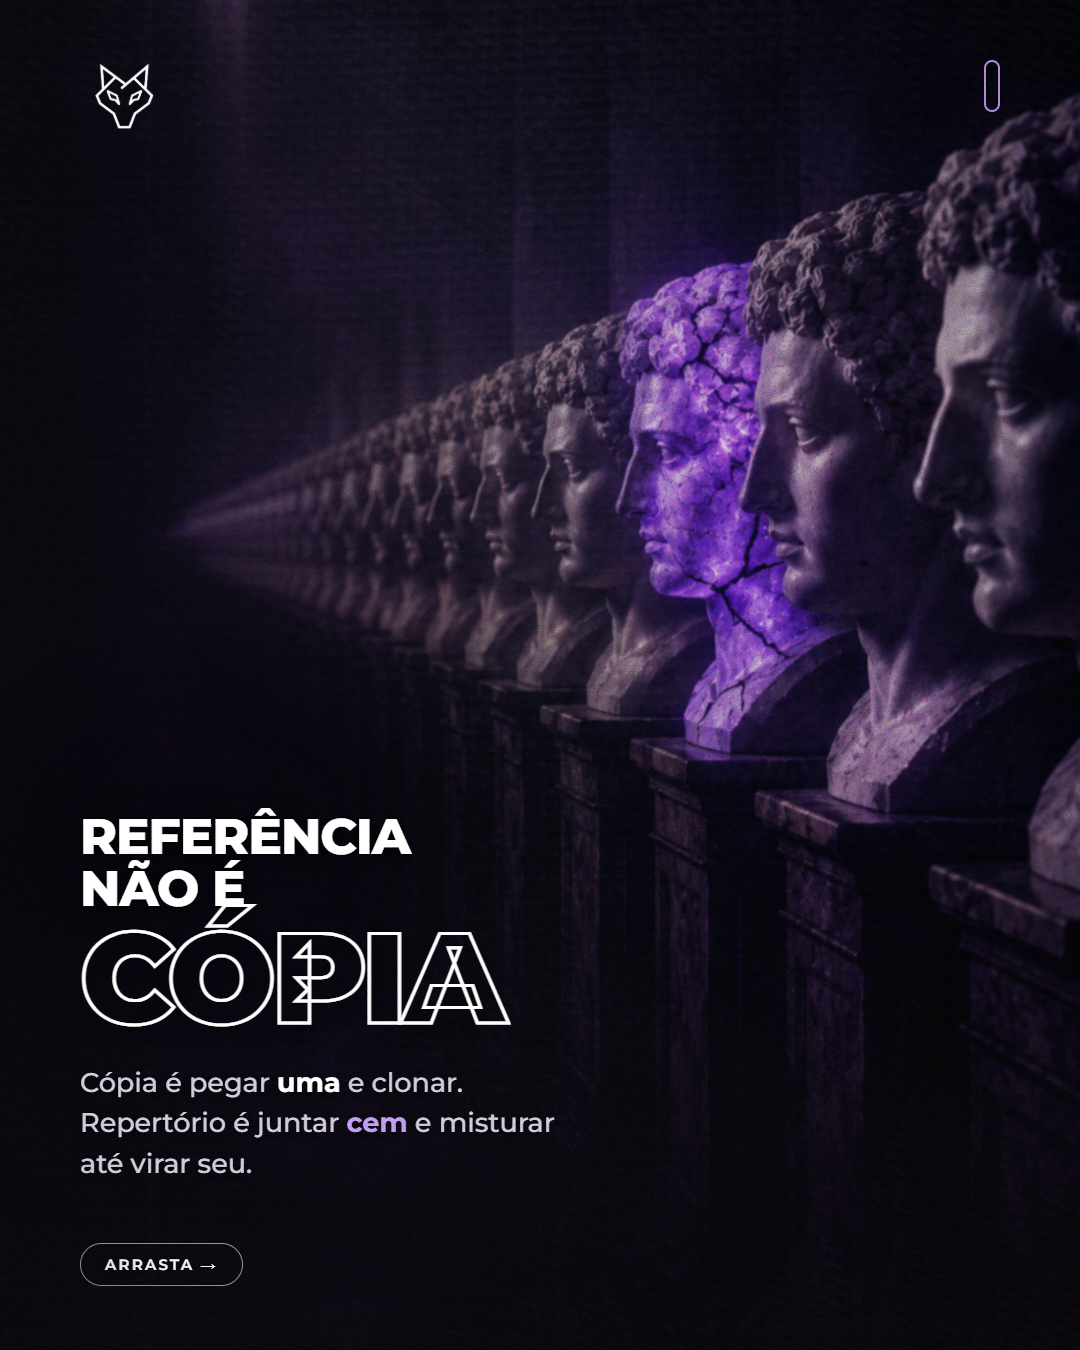
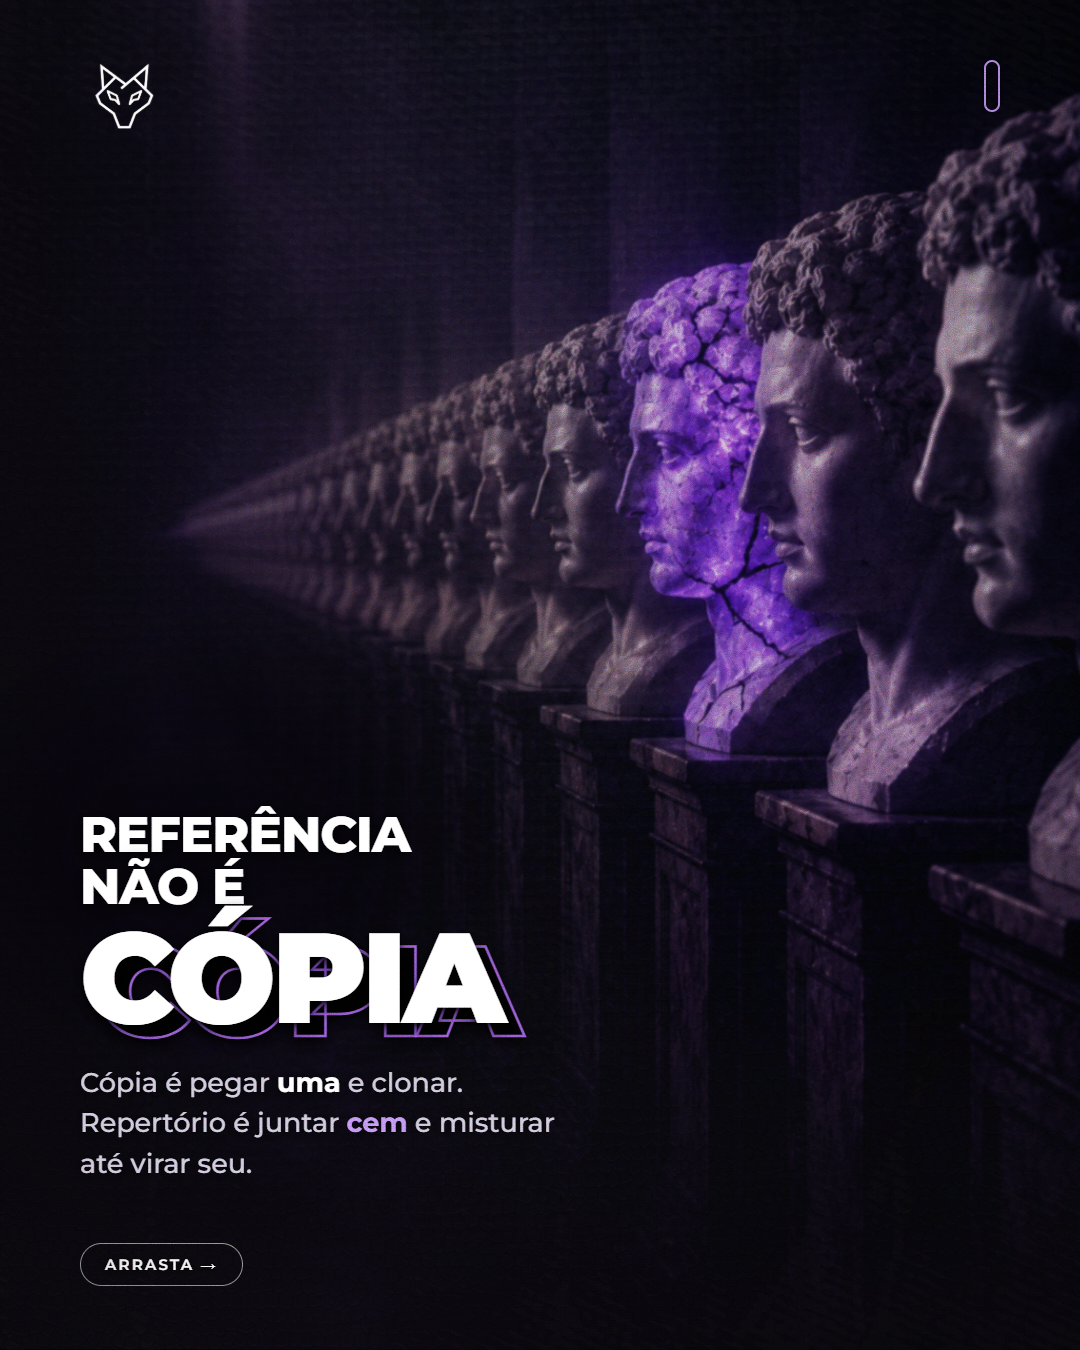
Slide 4: CÓPIA solida com eco roxo (duplicata) no lugar do outline

Changed region(s): [[0.0611, 0.5911, 0.4889, 0.7778], [0.3056, 0.5911, 0.3361, 0.6533]]

diff --git a/marketing/conteudo/carrossel-referencias-criatividade-2026-06-17/slide-04.html b/marketing/conteudo/carrossel-referencias-criatividade-2026-06-17/slide-04.html
@@ -32,9 +32,12 @@
   .bloco{ position:absolute; z-index:5; left:80px; bottom:166px; max-width:600px; }
   .lead{ font-weight:800; text-transform:uppercase; font-size:50px; line-height:1.04; letter-spacing:-.02em; color:#fff;
     text-shadow:0 3px 16px rgba(0,0,0,.85); }
-  .hero{ position:relative; font-weight:900; text-transform:uppercase; font-size:128px; line-height:.92; letter-spacing:-.03em;
-    color:transparent; -webkit-text-stroke:3px #fff; margin-top:4px;
-    filter:drop-shadow(6px 14px 10px rgba(0,0,0,.6)); }
+  /* "CÓPIA": branca sólida + eco roxo deslocado atrás (duplicata = cópia) */
+  .hero{ position:relative; display:inline-block; font-weight:900; text-transform:uppercase; font-size:128px;
+    line-height:.92; letter-spacing:-.03em; color:#fff; margin-top:6px; z-index:1;
+    text-shadow:0 6px 16px rgba(0,0,0,.8), 0 2px 4px rgba(0,0,0,.65); }
+  .hero::before{ content:"Cópia"; position:absolute; left:0; top:0; z-index:-1;
+    color:transparent; -webkit-text-stroke:2.5px rgba(155,95,224,.9); transform:translate(16px,13px); }
   .corpo{ margin-top:26px; max-width:520px; font-size:27px; font-weight:500; line-height:1.5; color:#C9C3D6;
     text-shadow:0 2px 14px rgba(0,0,0,.9); }
   .corpo b{ color:#fff; font-weight:700; }